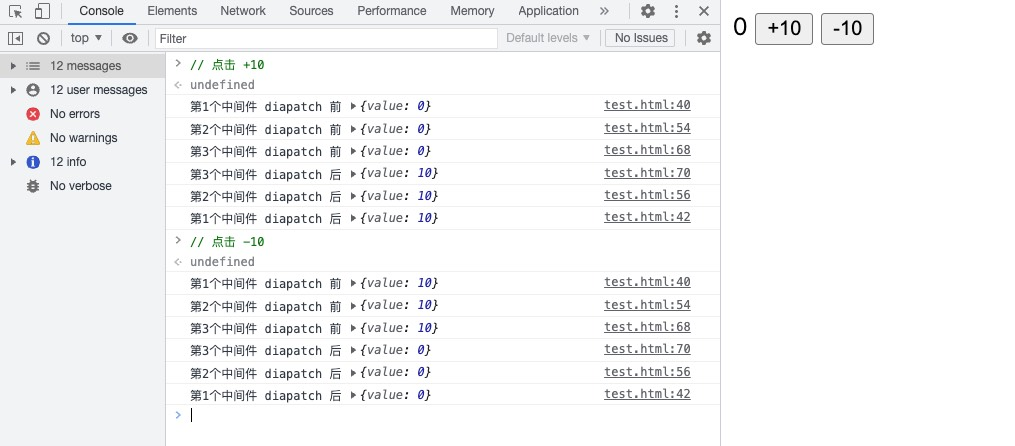
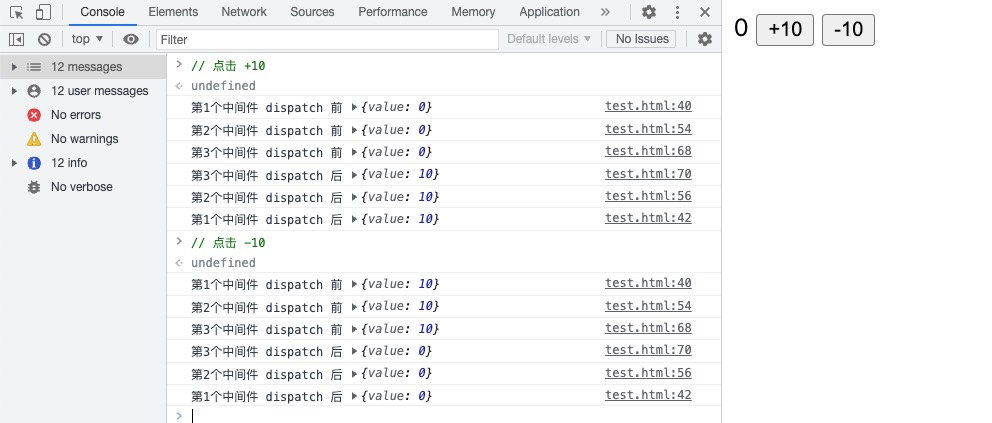
redux

diff --git a/docs/coffee/React/一杯咖啡的时间 上手Redux & Redux Toolkit.md b/docs/coffee/React/一杯咖啡的时间 上手Redux & Redux Toolkit.md
@@ -882,9 +882,9 @@ function middleware1({ getState }) {
   return function wrapDispatch(next) {
     return function handleAction (action) {
 
-      console.log('第1个中间件 diapatch 前', getState())
+      console.log('第1个中间件 dispatch 前', getState())
       const returnValue = next(action)
-      console.log('第1个中间件 diapatch 后', getState())
+      console.log('第1个中间件 dispatch 后', getState())
 
       return returnValue
     }
@@ -896,9 +896,9 @@ function middleware2({ getState }) {
   return function wrapDispatch(next) {
     return function handleAction (action) {
 
-      console.log('第2个中间件 diapatch 前', getState())
+      console.log('第2个中间件 dispatch 前', getState())
       const returnValue = next(action)
-      console.log('第2个中间件 diapatch 后', getState())
+      console.log('第2个中间件 dispatch 后', getState())
 
       return returnValue
     }
@@ -910,9 +910,9 @@ function middleware3({ getState }) {
   return function wrapDispatch(next) {
     return function handleAction (action) {
 
-      console.log('第3个中间件 diapatch 前', getState())
+      console.log('第3个中间件 dispatch 前', getState())
       const returnValue = next(action)
-      console.log('第3个中间件 diapatch 后', getState())
+      console.log('第3个中间件 dispatch 后', getState())
 
       return returnValue
     }
